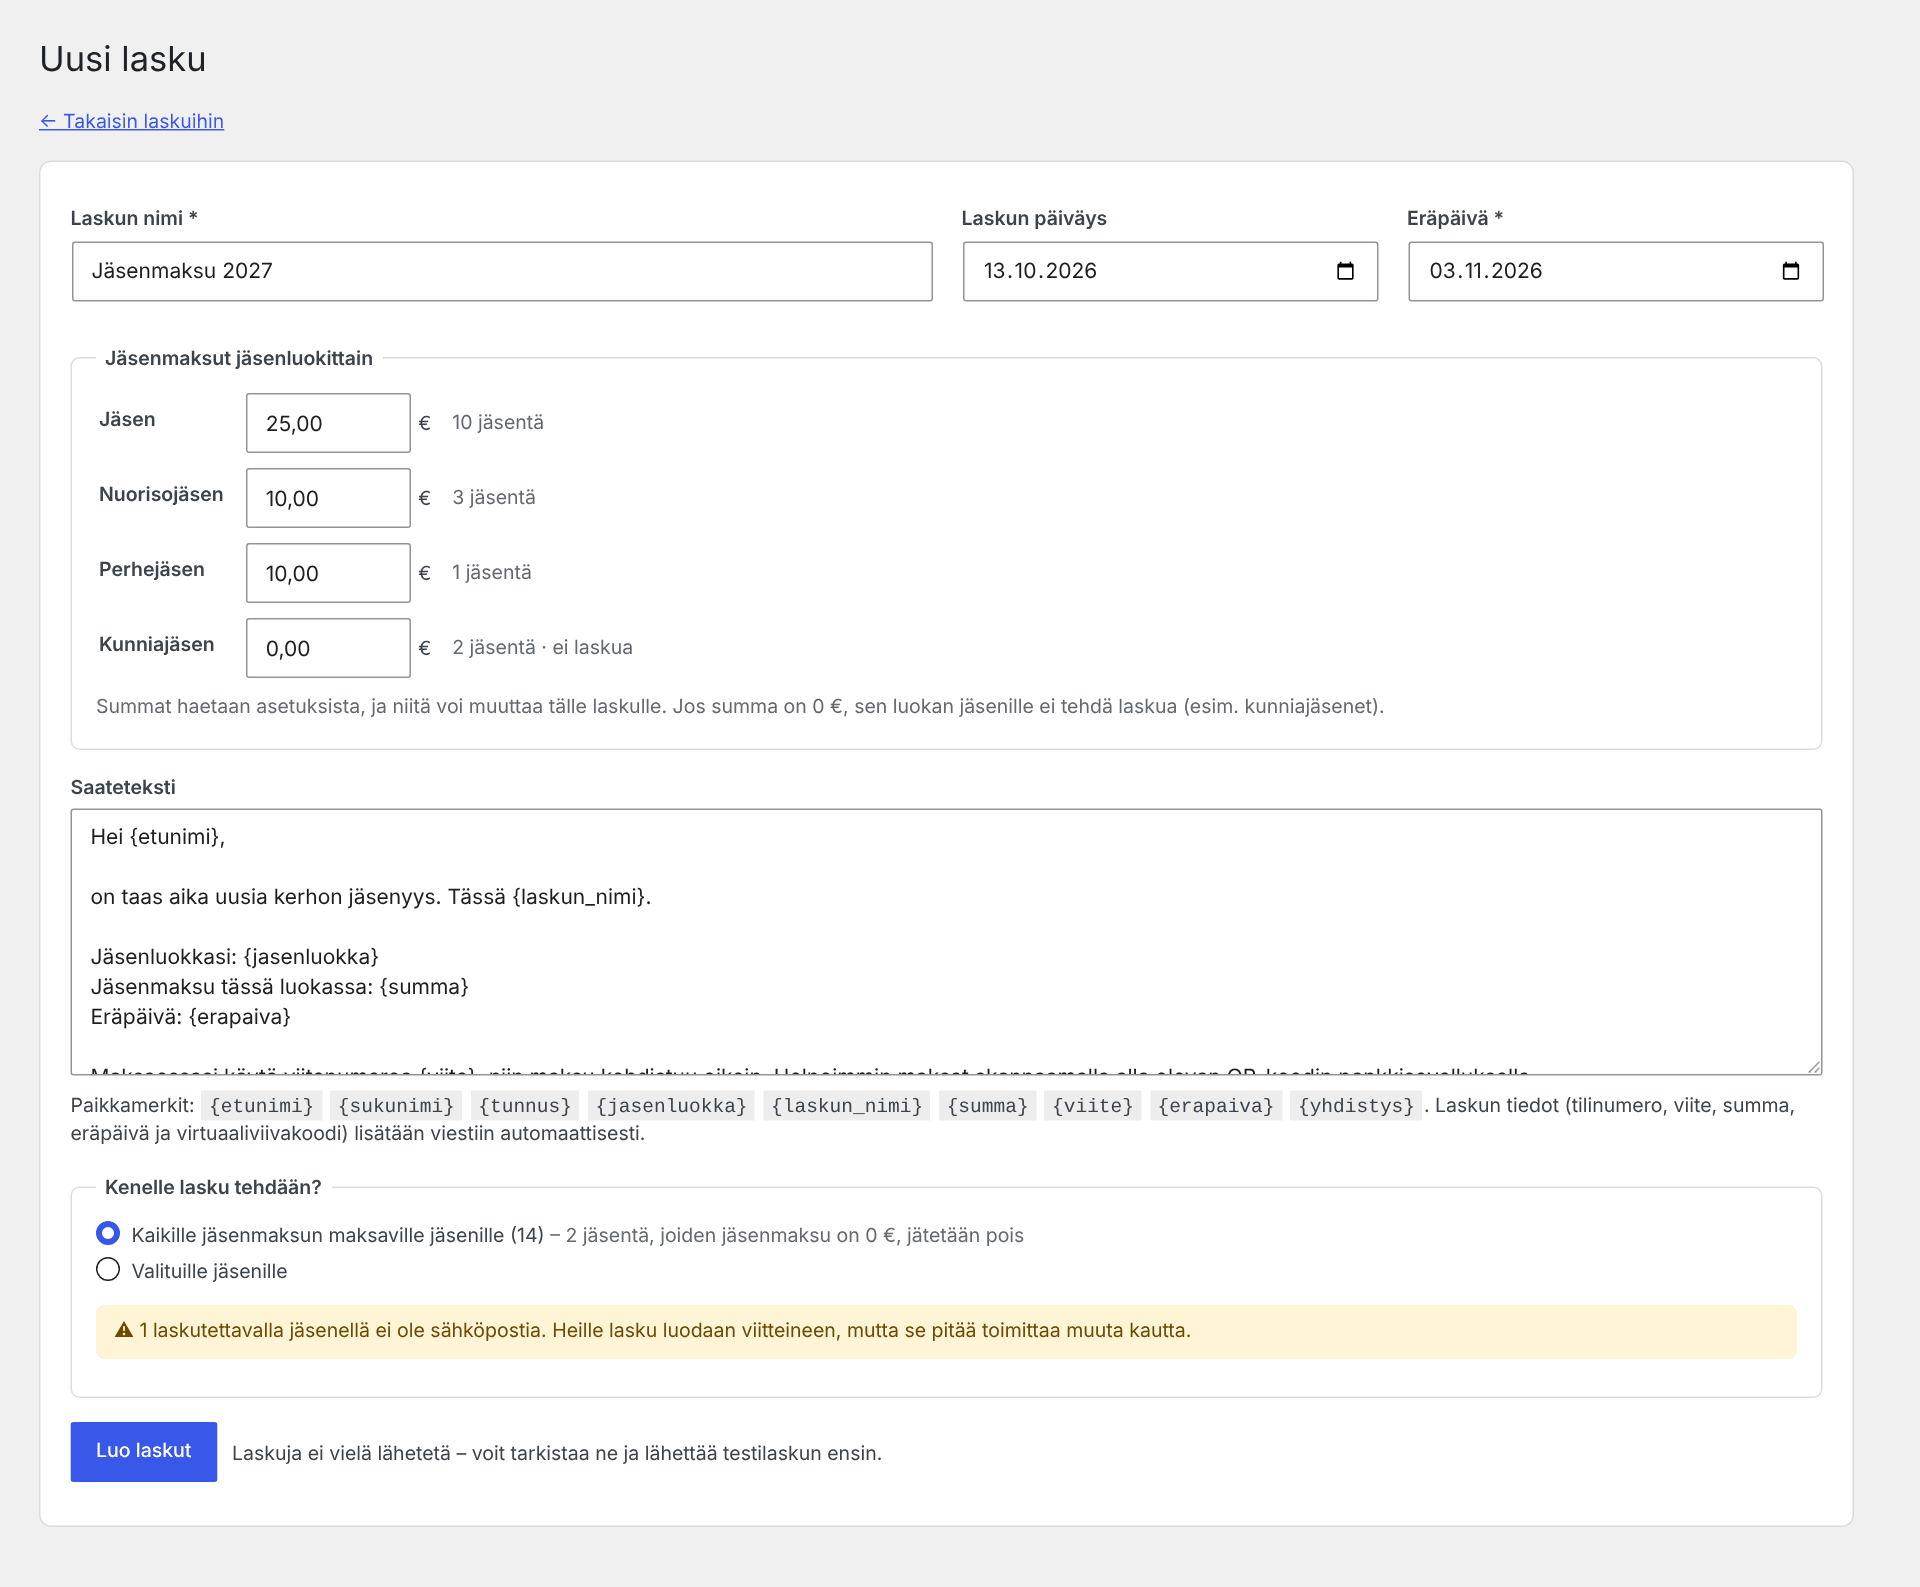
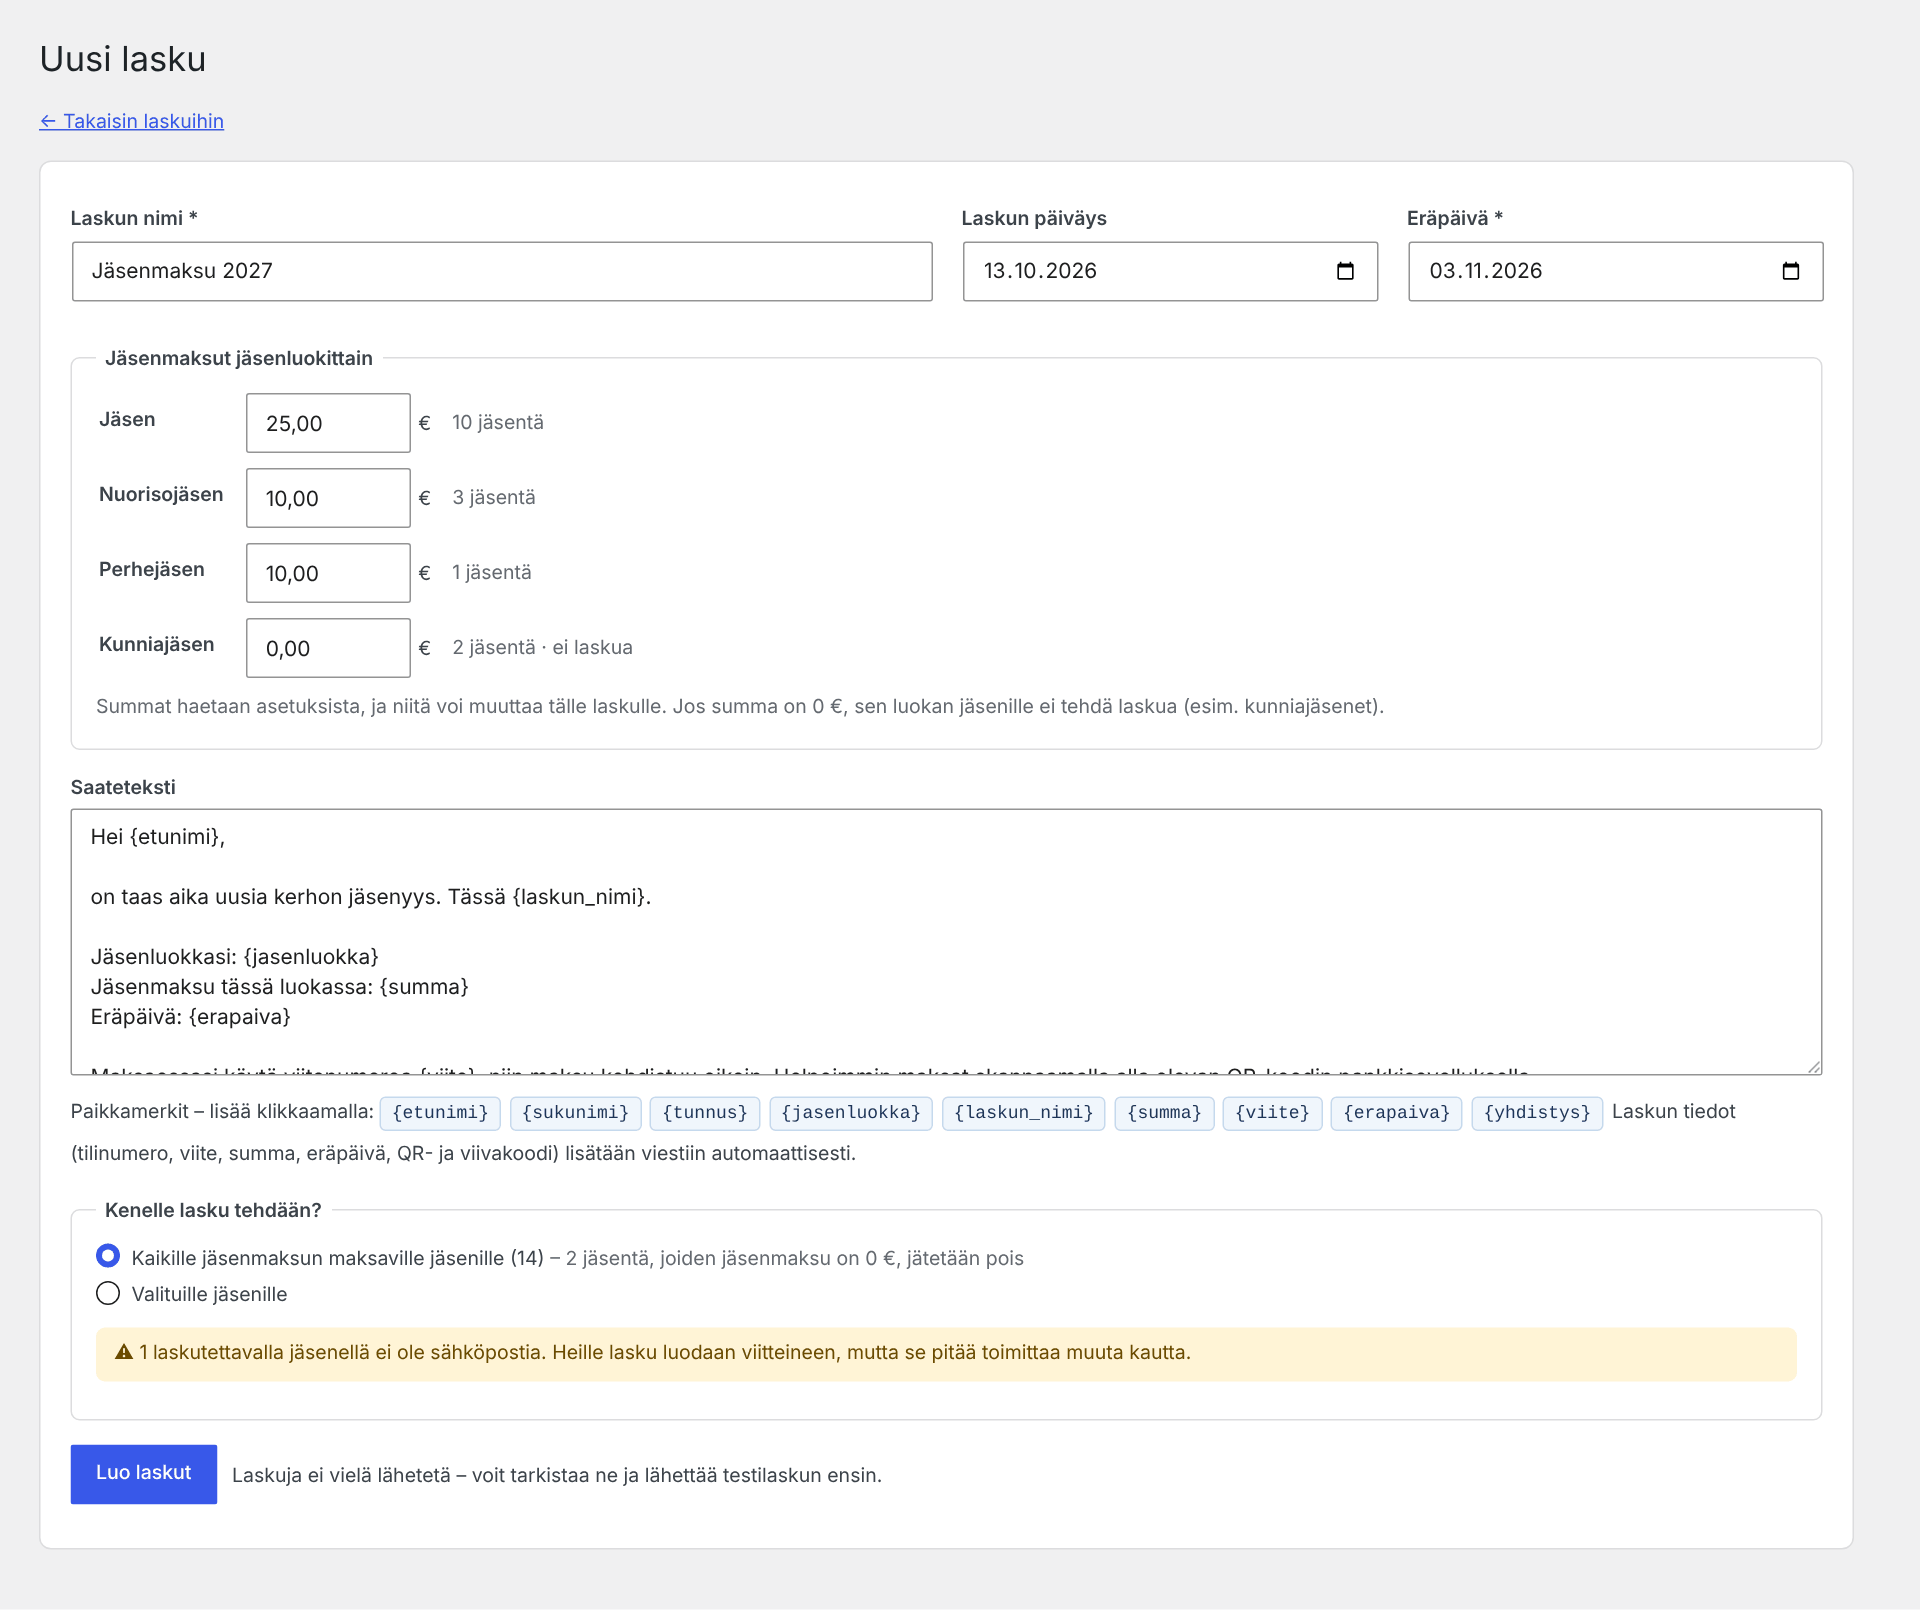
Jäsenrekisteri 4.4.0: klikattavat paikkamerkit
Paikkamerkit ovat painikkeita, jotka lisäävät merkin viestikenttään
kohdistimen kohdalle (laskun saate, laskun muokkaus, tiedote,
asetusten oletustekstit).

Claude-Session: https://claude.ai/code/session_01WremRbxGDai2cTBYzcBUSZ

diff --git a/assets/admin.js b/assets/admin.js
@@ -80,6 +80,26 @@
         });
     });
 
+    // Klikattavat paikkamerkit: lisätään kohdistimen kohdalle (tai valitun tekstin tilalle)
+    $(document).on('click', '.jr-ph', function (e) {
+        e.preventDefault();
+        var el = $($(this).data('target')).get(0);
+        if (!el) return;
+        var ph = String($(this).data('ph'));
+        var start = typeof el.selectionStart === 'number' ? el.selectionStart : el.value.length;
+        var end = typeof el.selectionEnd === 'number' ? el.selectionEnd : el.value.length;
+        el.focus();
+        if (typeof el.setRangeText === 'function') {
+            el.setRangeText(ph, start, end, 'end');
+        } else {
+            el.value = el.value.slice(0, start) + ph + el.value.slice(end);
+            el.selectionStart = el.selectionEnd = start + ph.length;
+        }
+        $(el).trigger('input');
+        var $b = $(this).addClass('jr-ph-ok');
+        setTimeout(function () { $b.removeClass('jr-ph-ok'); }, 400);
+    });
+
     // Tunnukset isoilla kirjaimilla
     $(document).on('input', '.jr-upper', function () {
         var p = this.selectionStart;

diff --git a/assets/admin.css b/assets/admin.css
@@ -185,3 +185,15 @@
 .jr-about dd { margin: 0; }
 .jr-kofi { display: inline-flex; align-items: center; gap: 8px; background: #72a4f2; color: #fff !important; text-decoration: none; padding: 8px 16px; border-radius: 6px; font-weight: 600; }
 .jr-kofi:hover { background: #5b8fe0; }
+
+/* 4.4: klikattavat paikkamerkit */
+.jr-phs { display: block; margin-top: 6px; line-height: 2; }
+.jr-ph {
+    font-family: Consolas, Menlo, monospace; font-size: 12px;
+    background: #f0f6fc; color: var(--jr-accent); border: 1px solid #c5d9ed; border-radius: 4px;
+    padding: 1px 7px; margin: 0 2px 2px 0; cursor: pointer; line-height: 1.6;
+    transition: background .15s, border-color .15s;
+}
+.jr-ph:hover, .jr-ph:focus { background: #dcebfa; border-color: #2271b1; outline: none; }
+.jr-ph:focus-visible { box-shadow: 0 0 0 2px #2271b1; }
+.jr-ph.jr-ph-ok { background: var(--jr-ok-bg); border-color: var(--jr-ok); color: var(--jr-ok); }

diff --git a/includes/invoices.php b/includes/invoices.php
@@ -522,7 +522,7 @@ function jr_invoice_new_form() {
 
         <p><label for="jr-viesti">Saateteksti</label>
            <textarea id="jr-viesti" name="viesti" rows="8"><?php echo esc_textarea($s['viesti_oletus']); ?></textarea>
-           <span class="description">Paikkamerkit: <code>{etunimi}</code> <code>{sukunimi}</code><?php if (jr_tunnus_on()): ?> <code>{tunnus}</code><?php endif; ?> <code>{jasenluokka}</code> <code>{laskun_nimi}</code> <code>{summa}</code> <code>{viite}</code> <code>{erapaiva}</code> <code>{yhdistys}</code>. Laskun tiedot (tilinumero, viite, summa, eräpäivä ja virtuaaliviivakoodi) lisätään viestiin automaattisesti.</span></p>
+           <?php echo jr_placeholders('jr-viesti', 'lasku', 'Laskun tiedot (tilinumero, viite, summa, eräpäivä, QR- ja viivakoodi) lisätään viestiin automaattisesti.'); ?></p>
 
         <fieldset class="jr-fieldset">
             <legend>Kenelle lasku tehdään?</legend>
@@ -766,7 +766,8 @@ function jr_invoice_detail($id) {
                 <?php if (jr_settings()['auto_muistutus'] === '1'): ?>
                 <p><label class="jr-radio"><input type="checkbox" name="auto_muistutus" value="1" <?php checked((int) $lasku->auto_muistutus, 1); ?>> Automaattiset maksumuistutukset tälle laskulle</label></p>
                 <?php endif; ?>
-                <p><label for="jr-e-viesti">Saateteksti</label><textarea id="jr-e-viesti" name="viesti" rows="6"><?php echo esc_textarea($lasku->viesti); ?></textarea></p>
+                <p><label for="jr-e-viesti">Saateteksti</label><textarea id="jr-e-viesti" name="viesti" rows="6"><?php echo esc_textarea($lasku->viesti); ?></textarea>
+                   <?php echo jr_placeholders('jr-e-viesti', 'lasku'); ?></p>
                 <p class="description">Summaa ei voi muuttaa jälkikäteen, koska laskut on jo muodostettu. Muutokset näkyvät seuraavissa lähetyksissä.</p>
                 <p><button type="submit" class="button button-primary">Tallenna</button></p>
             </form>

diff --git a/includes/helpers.php b/includes/helpers.php
@@ -358,6 +358,28 @@ function jr_mail($to, $subject, $html, $images = array()) {
     return $ok;
 }
 
+/**
+ * Klikattavat paikkamerkit tekstikentän alle: painike lisää merkin kohdistimen kohdalle.
+ * $tyyppi: 'lasku' (laskut ja muistutukset) tai 'tiedote'.
+ */
+function jr_placeholders($target_id, $tyyppi = 'lasku', $lisa = '') {
+    $selitteet = array(
+        'etunimi' => 'Etunimi', 'sukunimi' => 'Sukunimi', 'nimi' => 'Etu- ja sukunimi',
+        'tunnus' => jr_tunnus_nimi(), 'jasenluokka' => 'Jäsenluokka, esim. Nuorisojäsen',
+        'laskun_nimi' => 'Laskun nimi, esim. Jäsenmaksu 2027', 'summa' => 'Summa, esim. 25,00 €',
+        'viite' => 'Viitenumero', 'erapaiva' => 'Eräpäivä', 'yhdistys' => 'Yhdistyksen nimi',
+    );
+    $merkit = $tyyppi === 'tiedote'
+        ? array('etunimi', 'sukunimi', 'nimi', 'tunnus', 'jasenluokka', 'yhdistys')
+        : array('etunimi', 'sukunimi', 'tunnus', 'jasenluokka', 'laskun_nimi', 'summa', 'viite', 'erapaiva', 'yhdistys');
+    if (!jr_tunnus_on()) $merkit = array_values(array_diff($merkit, array('tunnus')));
+    $out = '<span class="description jr-phs">Paikkamerkit – lisää klikkaamalla: ';
+    foreach ($merkit as $k) {
+        $out .= '<button type="button" class="jr-ph" data-target="#' . esc_attr($target_id) . '" data-ph="{' . esc_attr($k) . '}" title="' . esc_attr($selitteet[$k]) . '">{' . esc_html($k) . '}</button> ';
+    }
+    return $out . ($lisa !== '' ? esc_html($lisa) : '') . '</span>';
+}
+
 /** Korvaa {paikkamerkit} ja muuttaa tekstin turvalliseksi HTML:ksi. */
 function jr_fill($text, $vars) {
     $out = esc_html($text);

diff --git a/includes/settings.php b/includes/settings.php
@@ -166,10 +166,11 @@ function jr_page_settings() {
             <div class="jr-panel">
                 <h2>Oletustekstit</h2>
                 <p><label for="jr-vo">Laskun saateteksti (oletus uusille laskuille)</label>
-                   <textarea id="jr-vo" name="viesti_oletus" rows="7"><?php echo esc_textarea($s['viesti_oletus']); ?></textarea></p>
+                   <textarea id="jr-vo" name="viesti_oletus" rows="7"><?php echo esc_textarea($s['viesti_oletus']); ?></textarea>
+                   <?php echo jr_placeholders('jr-vo', 'lasku'); ?></p>
                 <p><label for="jr-mt">Maksumuistutuksen teksti</label>
                    <textarea id="jr-mt" name="muistutus_teksti" rows="6"><?php echo esc_textarea($s['muistutus_teksti']); ?></textarea>
-                   <span class="description">Paikkamerkit: <code>{etunimi}</code> <code>{sukunimi}</code><?php if (jr_tunnus_on()): ?> <code>{tunnus}</code><?php endif; ?> <code>{jasenluokka}</code> <code>{laskun_nimi}</code> <code>{summa}</code> <code>{viite}</code> <code>{erapaiva}</code> <code>{yhdistys}</code></span></p>
+                   <?php echo jr_placeholders('jr-mt', 'lasku'); ?></p>
             </div>
 
             <div class="jr-panel" id="jr-poisto">

diff --git a/includes/mailer.php b/includes/mailer.php
@@ -141,7 +141,7 @@ function jr_page_mail() {
                <input type="text" id="jr-subject" name="subject" value="<?php echo esc_attr($draft['subject']); ?>" required></p>
             <p><label for="jr-body">Viesti</label>
                <textarea id="jr-body" name="body" rows="12" required placeholder="Hei {etunimi},&#10;&#10;…"><?php echo esc_textarea($draft['body']); ?></textarea>
-               <span class="description">Paikkamerkit: <code>{etunimi}</code> <code>{sukunimi}</code> <code>{nimi}</code><?php if (jr_tunnus_on()): ?> <code>{tunnus}</code><?php endif; ?> <code>{jasenluokka}</code> <code>{yhdistys}</code>. Rivinvaihdot säilyvät.</span></p>
+               <?php echo jr_placeholders('jr-body', 'tiedote', 'Rivinvaihdot säilyvät.'); ?></p>
 
             <p class="jr-actions">
                 <button type="submit" class="button button-primary button-large" data-confirm="Lähetetäänkö viesti valituille jäsenille?">Lähetä</button>

diff --git a/jasenrekisteri.php b/jasenrekisteri.php
@@ -3,7 +3,7 @@
 Plugin Name: Jäsenrekisteri
 Plugin URI: https://github.com/oh6kw/WP-Jasenrekisteri
 Description: Yhdistyksen jäsenrekisteri: jäsenet ja jäsenluokat, jäsenmaksulaskut omilla viitenumeroilla, QR-koodi ja pankkiviivakoodi, maksujen tuonti pankista, muistutukset ja sähköpostitiedotteet.
-Version: 4.3.0
+Version: 4.4.0
 Author: Jarno Jaskari OH6KW, Claude (Anthropic)
 Author URI: https://github.com/oh6kw
 License: AGPL-3.0-or-later
@@ -18,7 +18,7 @@ SPDX-License-Identifier: AGPL-3.0-or-later
 
 if (!defined('ABSPATH')) exit; // Estetään suora pääsy tiedostoon
 
-define('JR_VERSION', '4.3.0');
+define('JR_VERSION', '4.4.0');
 define('JR_DB_VERSION', '7');
 define('JR_FILE', __FILE__);
 define('JR_DIR', plugin_dir_path(__FILE__));

diff --git a/CHANGELOG.md b/CHANGELOG.md
@@ -1,5 +1,14 @@
 # Muutosloki – Jäsenrekisteri
 
+## 4.4.0 (2026-10-13)
+
+### Uutta: klikattavat paikkamerkit
+- Tekstikenttien alla olevat paikkamerkit, kuten `{etunimi}`, `{jasenluokka}` ja `{summa}`, ovat nyt **painikkeita**. Klikkaus lisää merkin tekstiin kohdistimen kohdalle tai valitun tekstin tilalle, ja kohdistin siirtyy merkin perään.
+- Käytössä kaikissa viestikentissä: uuden laskun saateteksti, laskun muokkaus, tiedote sekä asetusten oletussaate ja muistutusteksti. Oletussaatteella on nyt oma paikkamerkkirivi, eikä se enää jaa riviä muistutustekstin kanssa.
+- Painikkeen päälle vietäessä näytetään selite (esim. ”Summa, esim. 25,00 €”). Paikkamerkit näkyvät nyt myös laskun muokkauskentässä (Muokkaa laskun tietoja).
+- Lisätunnisteen paikkamerkki `{tunnus}` näytetään vain, jos lisätunniste on käytössä asetuksissa.
+
+
 ## 4.3.0 (2026-10-13)
 
 ### Uutta: kesken kauden liittyvä jäsen

diff --git a/README.md b/README.md
@@ -41,7 +41,7 @@ Lähetä koko jäsenistölle jäsenmaksulaskut sähköpostilla yhdellä painallu
 
 **Tiedotteet**
 - Sähköposti kaikille jäsenille, yhdelle jäsenluokalle tai viimeisimmän laskun maksamattomille.
-- Viestissä voi käyttää paikkamerkkejä, kuten `{etunimi}` ja `{jasenluokka}`. Jokainen saa oman viestinsä, eivätkä osoitteet näy muille.
+- Viestissä voi käyttää paikkamerkkejä, kuten `{etunimi}` ja `{jasenluokka}`. Ne lisätään tekstiin klikkaamalla. Jokainen saa oman viestinsä, eivätkä osoitteet näy muille.
 
 ## Kuvat
 
